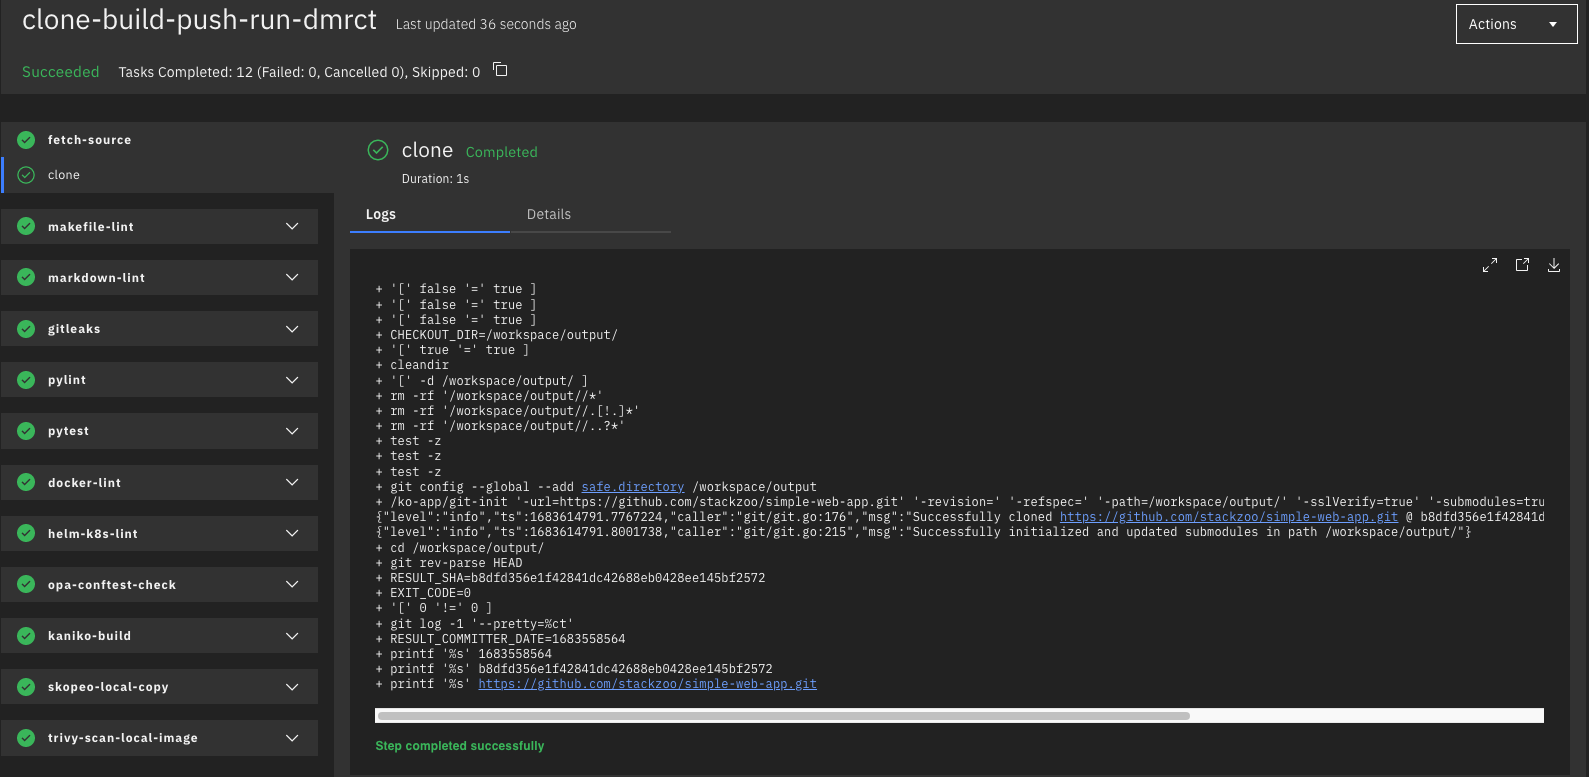
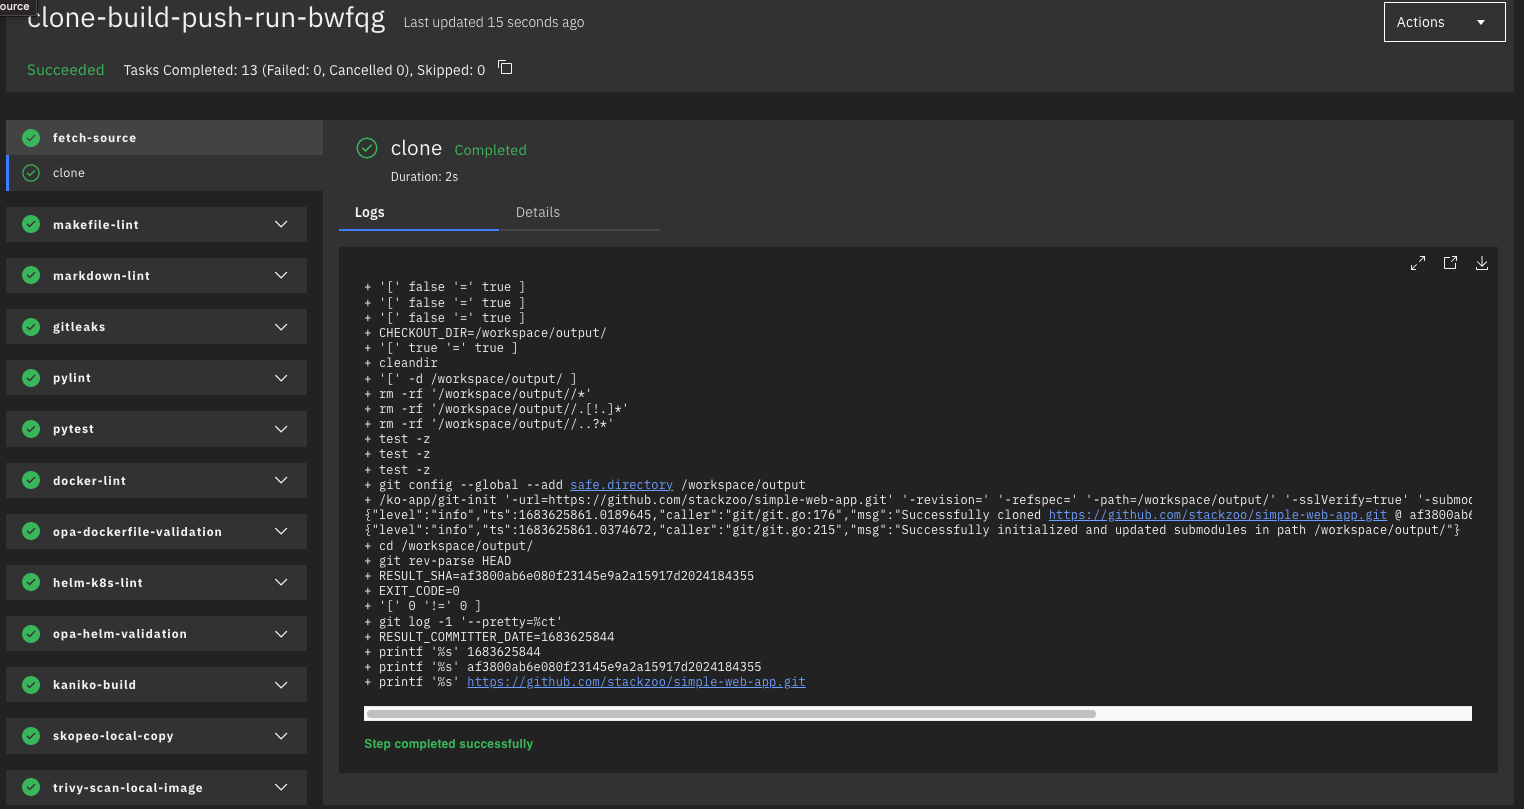
feat: add opa conftest tasks

diff --git a/projects/cicd/tekton/demo-2/README.md b/projects/cicd/tekton/demo-2/README.md
@@ -8,11 +8,10 @@ We implement a tekton pipeline that does the following:
 4. *SAST* analysis to search for *hardcoded secrets* (api keys, tokens, passwords) in the repository
 5. does *linting* against the python code
 6. executes a python *unit test*
-7. does *linting* against the *dockerfile*
-8. does *linting* against the *helm/k8s manifests*
-9. checks the *deployment manifest* against *OPA Conftest* rules
-10. *build* the *OCI image* and push it to a *local staging docker registry*
-11. *scan* the image for vulnerabilities
+7. does *linting* and *OPA Conftest* rules checking against the *dockerfile*
+8. does *linting* and *OPA Conftest* rules checking against the *helm/k8s manifests*
+9.  *build* the *OCI image* and push it to a *local staging docker registry*
+10. *scan* the image for vulnerabilities
 
 Some tasks (eg. the linting and testing ones) are run in parallel to speed up the pipeline execution.  
 In a real world scenario it is recommended to execute some tasks (eg. SAST, linting) via [pre-commit hooks](https://pre-commit.com/).
